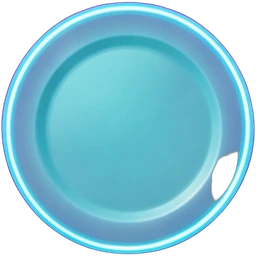
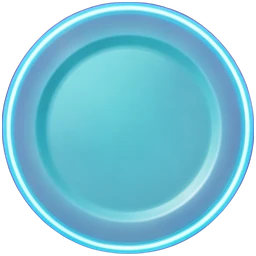
[Claude·MAC] Торты: у двух тарелок темы bio были выкусы по краю — перерезаны; сторож дыр на все 72 тарелки
ЧТО ВИДЕЛ ИГРОК. Кадр приёмки на собранном вебе 390×844 (торты, тема bio): у пятой
тарелки чёрные выкусы по нижнему краю, у второй — вырез справа.

ЗАМЕР. Доля прозрачного внутри круга самой тарелки (круг вписан в рамку непрозрачных
пикселей, радиус 0,94):
  bio/p4 8,61 % · bio/p1 1,83 % · остальные 70 тарелок 0,00 % · sweet/p3 0,38 %
  (впадины волнистого края) · bio/p0 0,13 %.
Причина — нарезка листа на пурпурном фоне 06.09: сиреневую p4 цветовой ключ выел как
фон, у бирюзовой p1 вырез делает модель (birefnet ставит его в то же место при
перерезке — проверено повтором).

ЧЕМ ПОЧИНЕНО.
· p4 — из третьего захода нарезки (cut3, модель): 0,00 %.
· p1 — альфа модели, а внутри круга тарелки дыру закрывает цветовой ключ (сам ключ
  оставлял толстую пурпурную тень за ободом — она за пределами круга и не попала);
  на краевых пикселях снят пурпурный перевес (деспилл). 0,00 %; пурпурных краевых
  пикселей 0 против 59…209 у целых тарелок той же темы.
Обе — 256×256 webp, как соседние; дыры после сжатия 0,00 %. Сравнение «было/стало» на
чёрном и белом фоне смотрено глазами.

ГЕЙТ cake-plates-have-no-holes: все 72 тарелки, порог 0,5 % — между худшей целой
(0,38) и лучшей испорченной (1,83). Мутации: вернуть старую p4 → красный «8,61 %»;
старую p1 → красный «1,83 %». Работает под jest через sharp (окружение node).
⚠ Первая редакция замера брала круг от КАДРА и насчитала 26 % «дыр» у целой тарелки
с полями — поля попали в круг. Круг теперь от самой тарелки.

diff --git a/frontend/src/__tests__/cake-plates-have-no-holes.test.ts b/frontend/src/__tests__/cake-plates-have-no-holes.test.ts
@@ -1,0 +1,78 @@
+/**
+ * @jest-environment node
+ */
+/* psygames-gate-cake-plates-have-no-holes · VER 1 · 16.09.2026 */
+/**
+ * 🔴 У ТАРЕЛКИ НЕТ ДЫР — ЗАМЕР ПРОЗРАЧНОСТИ, А НЕ ВЗГЛЯД НА ЛИСТ.
+ *
+ * ПОВОД. Кадр приёмки 16.09.2026 (собранный веб 390×844, торты, тема `bio`): у пятой
+ * тарелки чёрные выкусы по нижнему краю, у второй — вырез справа. Тарелки вырезаны
+ * из листа на пурпурном фоне; сиреневую `bio/p4` цветовой ключ выел как фон (8,6 %
+ * прозрачного внутри круга тарелки), бирюзовую `bio/p1` выела модель (1,8 %).
+ * На листе 72 тарелок размером 120 точек это не видно — видно на телефоне.
+ *
+ * КАК МЕРИТСЯ. Круг — САМОЙ тарелки, а не кадра: он вписан в рамку непрозрачных
+ * пикселей, радиус 0,94 от половины рамки. Первая редакция замера брала круг от
+ * кадра и на вырезке с полями насчитала «26 % дыр» у целой тарелки — поля кадра
+ * попали в круг. Дыра — пиксель с альфой < 128.
+ *
+ * ПОРОГ. 0,5 % — по замеру этой же функцией 16.09.2026: у всех 72 тарелок после
+ * починки 0,00…0,38 % (sweet/p3 0,38 — впадины волнистого края, bio/p0 0,13, у
+ * остальных 70 — ноль), у двух испорченных было 1,83 % (bio/p1) и 8,61 % (bio/p4).
+ * Порог лежит между худшей целой и лучшей испорченной.
+ *
+ * ЧЕМ ПОЧИНЕНО. bio/p4 — перерезка из cut3 (модель birefnet); bio/p1 — альфа модели,
+ * а внутри круга тарелки дыру закрывает цветовой ключ (сам ключ оставлял пурпурную тень
+ * за ободом, модель — выкус), плюс деспилл пурпура на краевых пикселях.
+ */
+declare const __dirname: string;
+declare function require(id: string): any;
+const fs: { readdirSync(p: string): string[] } = require('fs');
+const path: { join(...p: string[]): string } = require('path');
+const sharp = require('sharp');
+
+const КОРЕНЬ = path.join(__dirname, '..', '..', 'assets', 'images', 'cake_plates');
+const ПОРОГ = 0.5;
+
+async function дыр(файл: string): Promise<number> {
+  const { data, info } = await sharp(файл).ensureAlpha().raw().toBuffer({ resolveWithObject: true });
+  const { width: w, height: h, channels: ch } = info;
+  const альфа = (x: number, y: number) => data[(y * w + x) * ch + (ch - 1)];
+  let x0 = w; let y0 = h; let x1 = -1; let y1 = -1;
+  for (let y = 0; y < h; y += 1) {
+    for (let x = 0; x < w; x += 1) {
+      if (альфа(x, y) >= 128) { if (x < x0) x0 = x; if (x > x1) x1 = x; if (y < y0) y0 = y; if (y > y1) y1 = y; }
+    }
+  }
+  if (x1 < 0) return 100;
+  const cx = (x0 + x1 + 1) / 2; const cy = (y0 + y1 + 1) / 2;
+  const r = (Math.min(x1 - x0 + 1, y1 - y0 + 1) / 2) * 0.94;
+  let всего = 0; let пусто = 0;
+  for (let y = Math.floor(cy - r); y <= Math.ceil(cy + r); y += 1) {
+    for (let x = Math.floor(cx - r); x <= Math.ceil(cx + r); x += 1) {
+      if (x < 0 || y < 0 || x >= w || y >= h) continue;
+      if ((x + 0.5 - cx) ** 2 + (y + 0.5 - cy) ** 2 > r * r) continue;
+      всего += 1;
+      if (альфа(x, y) < 128) пусто += 1;
+    }
+  }
+  return (100 * пусто) / всего;
+}
+
+const тарелки = fs.readdirSync(КОРЕНЬ)
+  .flatMap((тема: string) => fs.readdirSync(path.join(КОРЕНЬ, тема)).filter((f: string) => f.endsWith('.webp')).map((f: string) => path.join(тема, f)));
+
+describe('у тарелок тортов нет дыр', () => {
+  it('премиса: тарелок 72 — девять тем по восемь', () => {
+    expect(тарелки.length).toBe(72);
+  });
+
+  it(`🔴 внутри круга тарелки прозрачного не больше ${ПОРОГ} %`, async () => {
+    const дырявые: string[] = [];
+    for (const т of тарелки) {
+      const д = await дыр(path.join(КОРЕНЬ, т));
+      if (д > ПОРОГ) дырявые.push(`${т}: ${д.toFixed(2)} %`);
+    }
+    expect(дырявые).toEqual([]);
+  }, 120_000);
+});
